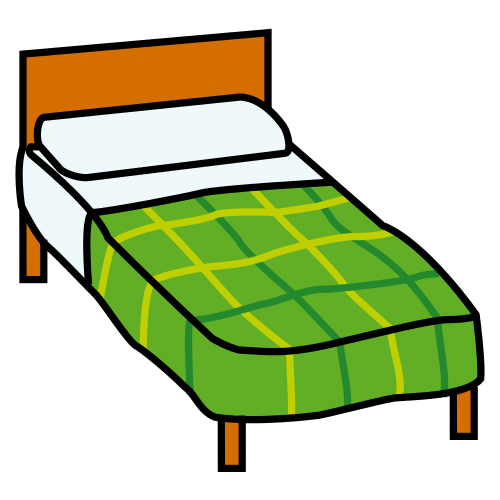
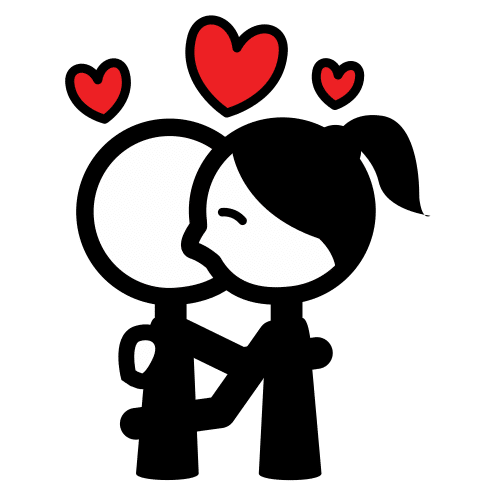
fix: pictogramas revisados contra cada palabra (ama, enojado y frío estaban mal), 23 pictogramas faltantes descargados y palabras sin dibujo se muestran solo escritas

diff --git a/frontend/src/features/aprender/components/PictogramaCard.tsx b/frontend/src/features/aprender/components/PictogramaCard.tsx
@@ -40,6 +40,9 @@ export const PictogramaCard: React.FC<PictogramaCardProps> = ({
 		setHasError(false);
 	}
 
+	// Palabra de contenido (con dibujo previsto) vs. palabra funcional, que no lo lleva
+	const sinDibujo = !palabra.pictogramaUrl && !palabra.clave && !picEnDb;
+
 	const handleImageError = async () => {
 		if (!hasError) {
 			const apiUrl = await resolverYGuardarPictograma(palabra.clave ?? palabra.texto);
@@ -82,21 +85,24 @@ export const PictogramaCard: React.FC<PictogramaCardProps> = ({
 					: 'border-borderCustom hover:border-brand'
 			} ${className}`}
 		>
-			{/* Marco del Pictograma */}
-			<div className={`${grande ? 'w-36 h-36 sm:w-48 sm:h-48 lg:w-60 lg:h-60' : 'w-24 h-24 sm:w-28 sm:h-28'} flex items-center justify-center bg-surface rounded-control p-2 border-2 border-borderCustom shadow-inner overflow-hidden`}>
-				{imgSrc && !hasError ? (
-					<img
-						src={imgSrc}
-						alt={palabra.texto}
-						onError={handleImageError}
-						className="w-full h-full object-contain group-hover:scale-110 transition-transform"
-					/>
-				) : (
-					<div className="text-3xl font-black text-secondary">
-						{palabra.texto.charAt(0).toUpperCase()}
-					</div>
-				)}
-			</div>
+			{/* Marco del pictograma. Las palabras sin dibujo (un, mi, con, tengo…) se muestran solo escritas,
+			    en vez de una letra suelta que parece un error. */}
+			{!sinDibujo && (
+				<div className={`${grande ? 'w-36 h-36 sm:w-48 sm:h-48 lg:w-60 lg:h-60' : 'w-24 h-24 sm:w-28 sm:h-28'} flex items-center justify-center bg-surface rounded-control p-2 border-2 border-borderCustom shadow-inner overflow-hidden`}>
+					{imgSrc && !hasError ? (
+						<img
+							src={imgSrc}
+							alt={palabra.texto}
+							onError={handleImageError}
+							className="w-full h-full object-contain group-hover:scale-110 transition-transform"
+						/>
+					) : (
+						<div className="text-3xl font-black text-secondary">
+							{palabra.texto.charAt(0).toUpperCase()}
+						</div>
+					)}
+				</div>
+			)}
 
 			{/* Texto de la Palabra */}
 			<span className={`font-black text-primary text-center ${grande ? 'text-3xl sm:text-5xl' : 'text-lg sm:text-xl'}`}>

diff --git a/frontend/scripts/descargar-pictogramas.js b/frontend/scripts/descargar-pictogramas.js
@@ -20,6 +20,17 @@ const PALABRAS_CLAVE = [
 	'saltar', 'tomar', 'gato', 'pan', 'cama', 'abrazar'
 ];
 
+// Pictogramas revisados a mano, uno por uno, contra la palabra que ilustran. La búsqueda automática se
+// equivocaba (p. ej. «ama» daba una cama, «enojado» una persona barriendo), así que estos IDs mandan.
+// Para cambiar uno: buscar en arasaac.org, anotar el número y ponerlo aquí.
+const ID_FIJOS = {
+	enojado: 35539, frio: 35557, ama: 6898,
+	dado: 2731, dama: 4745, dedo: 3298, lana: 2948, lila: 2940, lima: 15453, lupa: 9927, masa: 32476,
+	mimi: 7114, gato: 7114, mula: 2291 /* burro: ARASAAC no tiene mula */, pala: 2867, pelo: 2851,
+	piso: 2575 /* suelo */, puma: 9068, sala: 6211 /* living */, sapo: 3384, sopa: 2573,
+	saltar: 28441, tomar: 6061, pan: 2494, cama: 2304, abrazar: 6023,
+};
+
 const targetDir = path.join(__dirname, '..', 'public', 'pictogramas', 'arasaac');
 if (!fs.existsSync(targetDir)) {
 	fs.mkdirSync(targetDir, { recursive: true });
@@ -81,7 +92,7 @@ async function run() {
 	console.log('🚀 Buscando e identificando pictogramas exactos en ARASAAC...\n');
 	for (const palabra of PALABRAS_CLAVE) {
 		const cleanName = palabra.trim().toLowerCase().normalize('NFD').replace(/[\u0300-\u036f]/g, '');
-		const id = await getExactPictogramId(palabra);
+		const id = ID_FIJOS[cleanName] ?? (await getExactPictogramId(palabra));
 		if (id) {
 			await downloadImage(id, cleanName);
 		} else {
